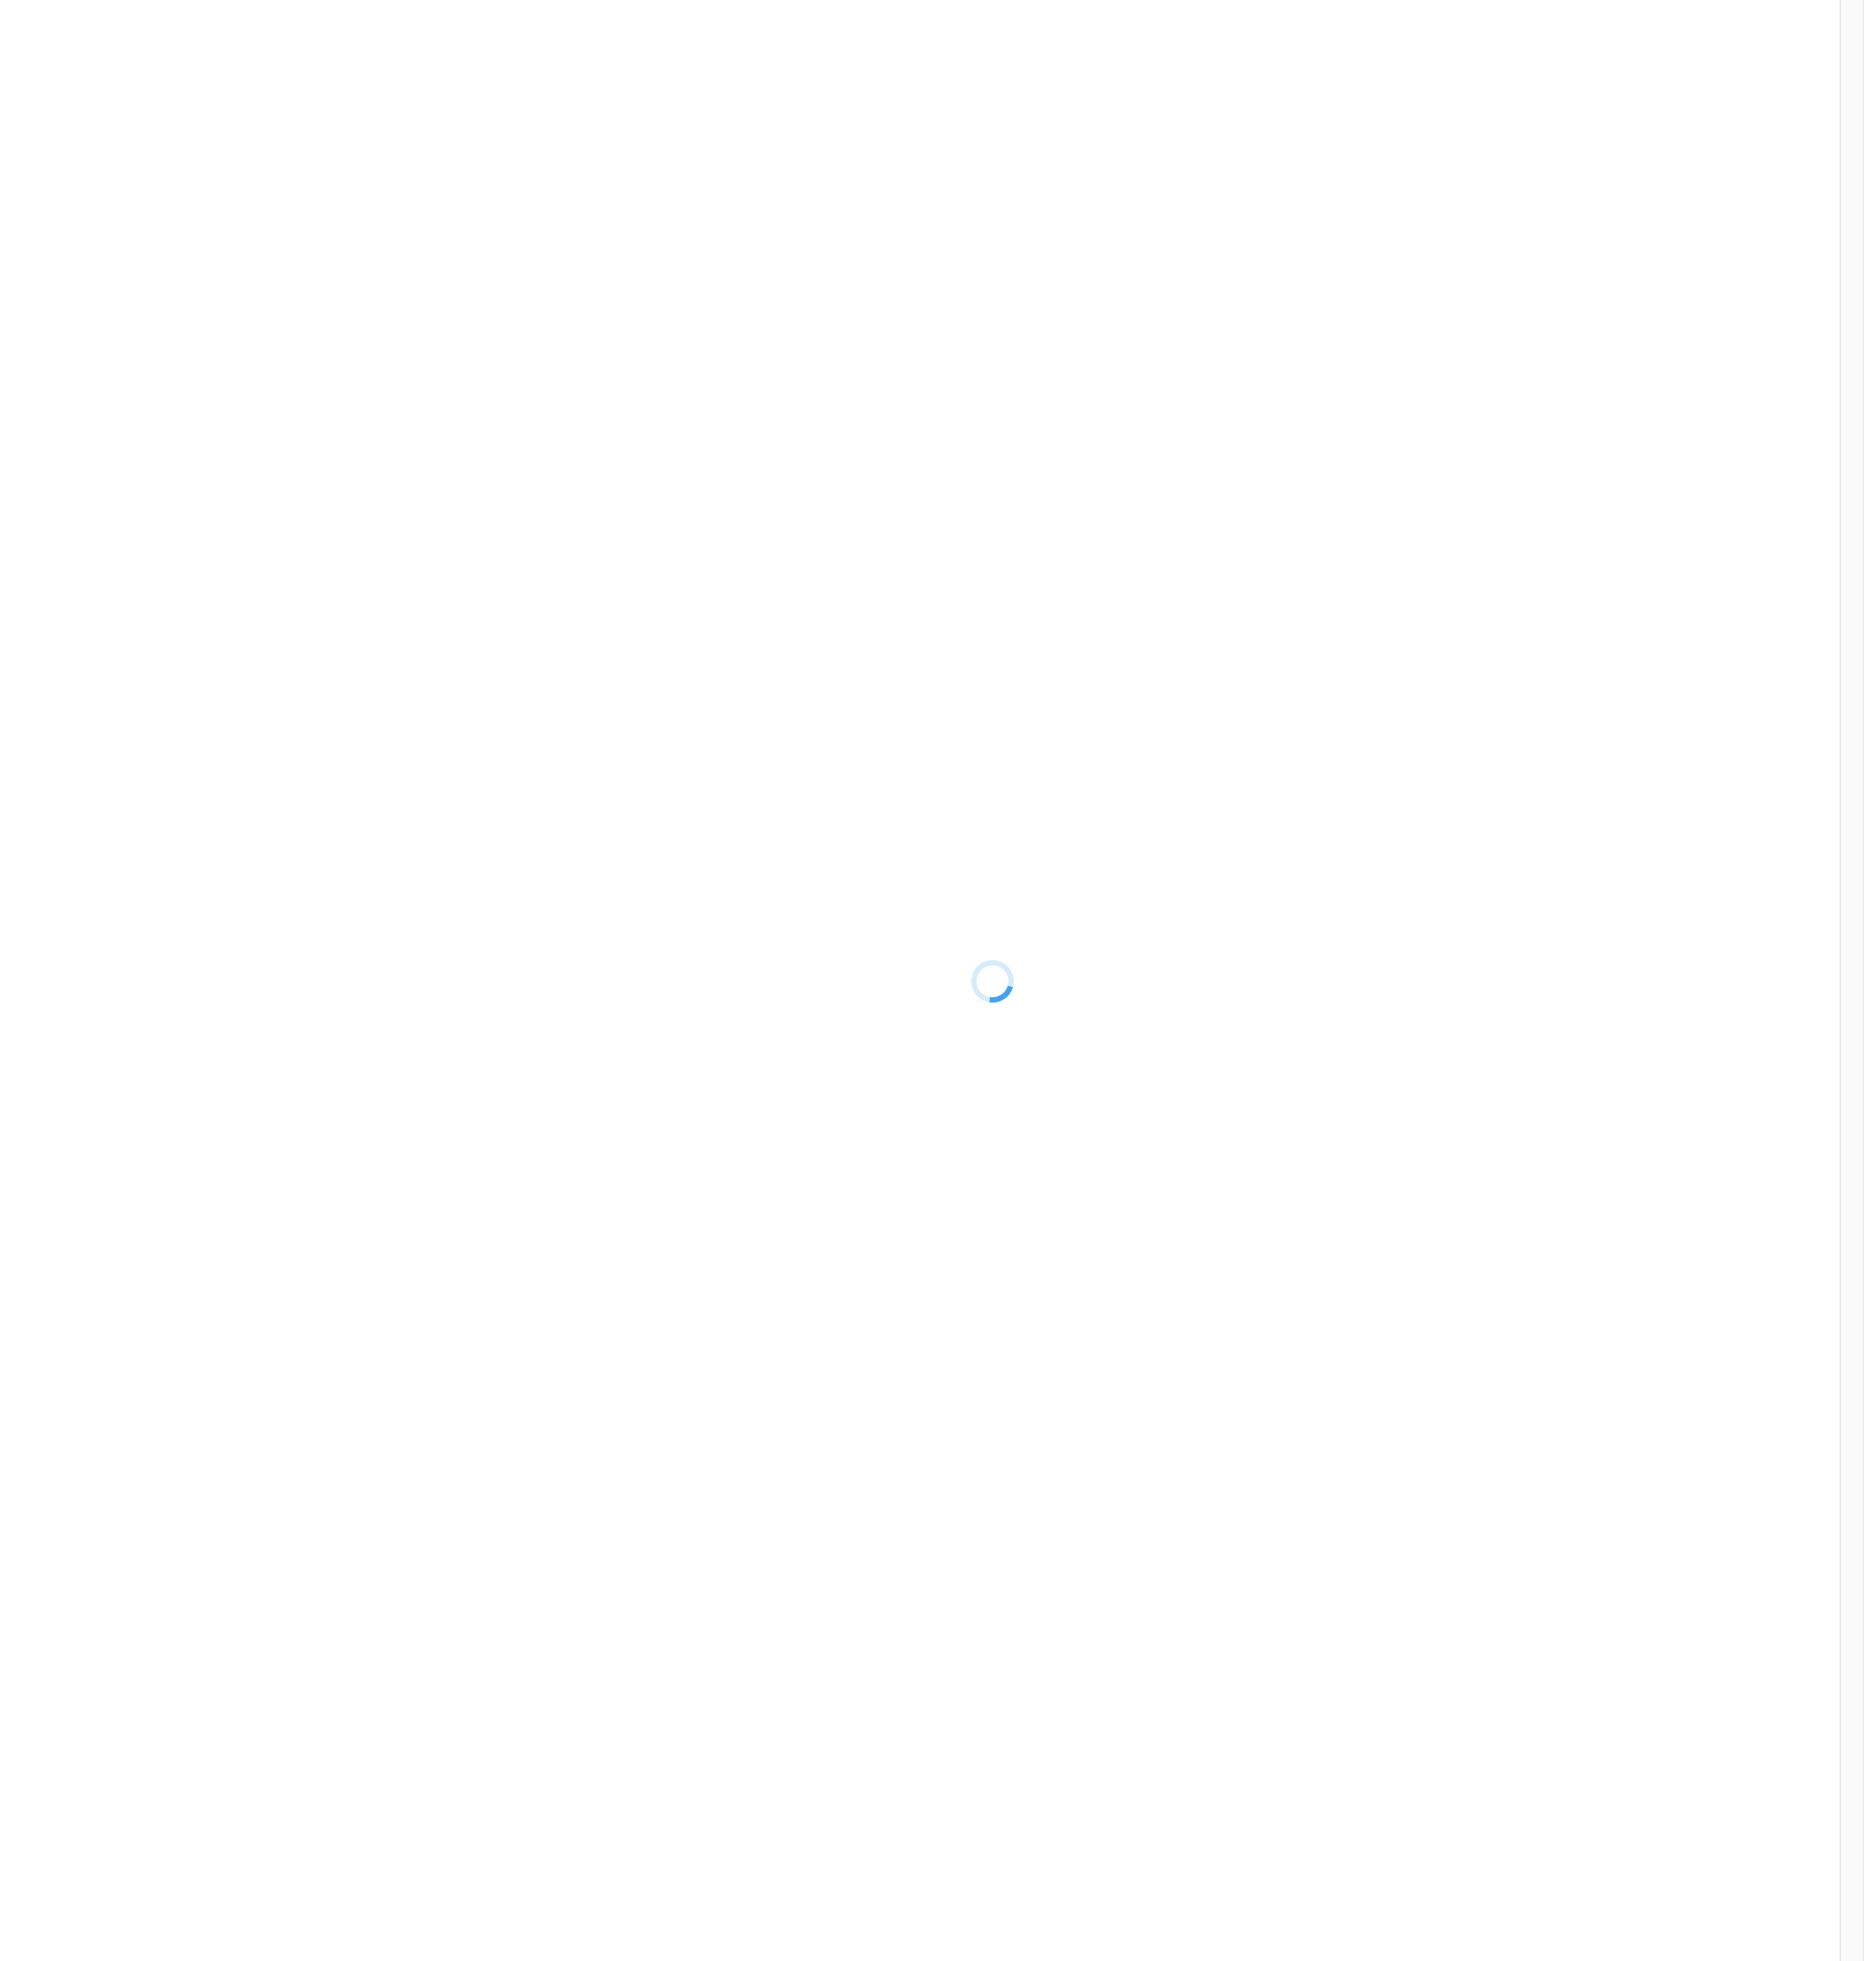
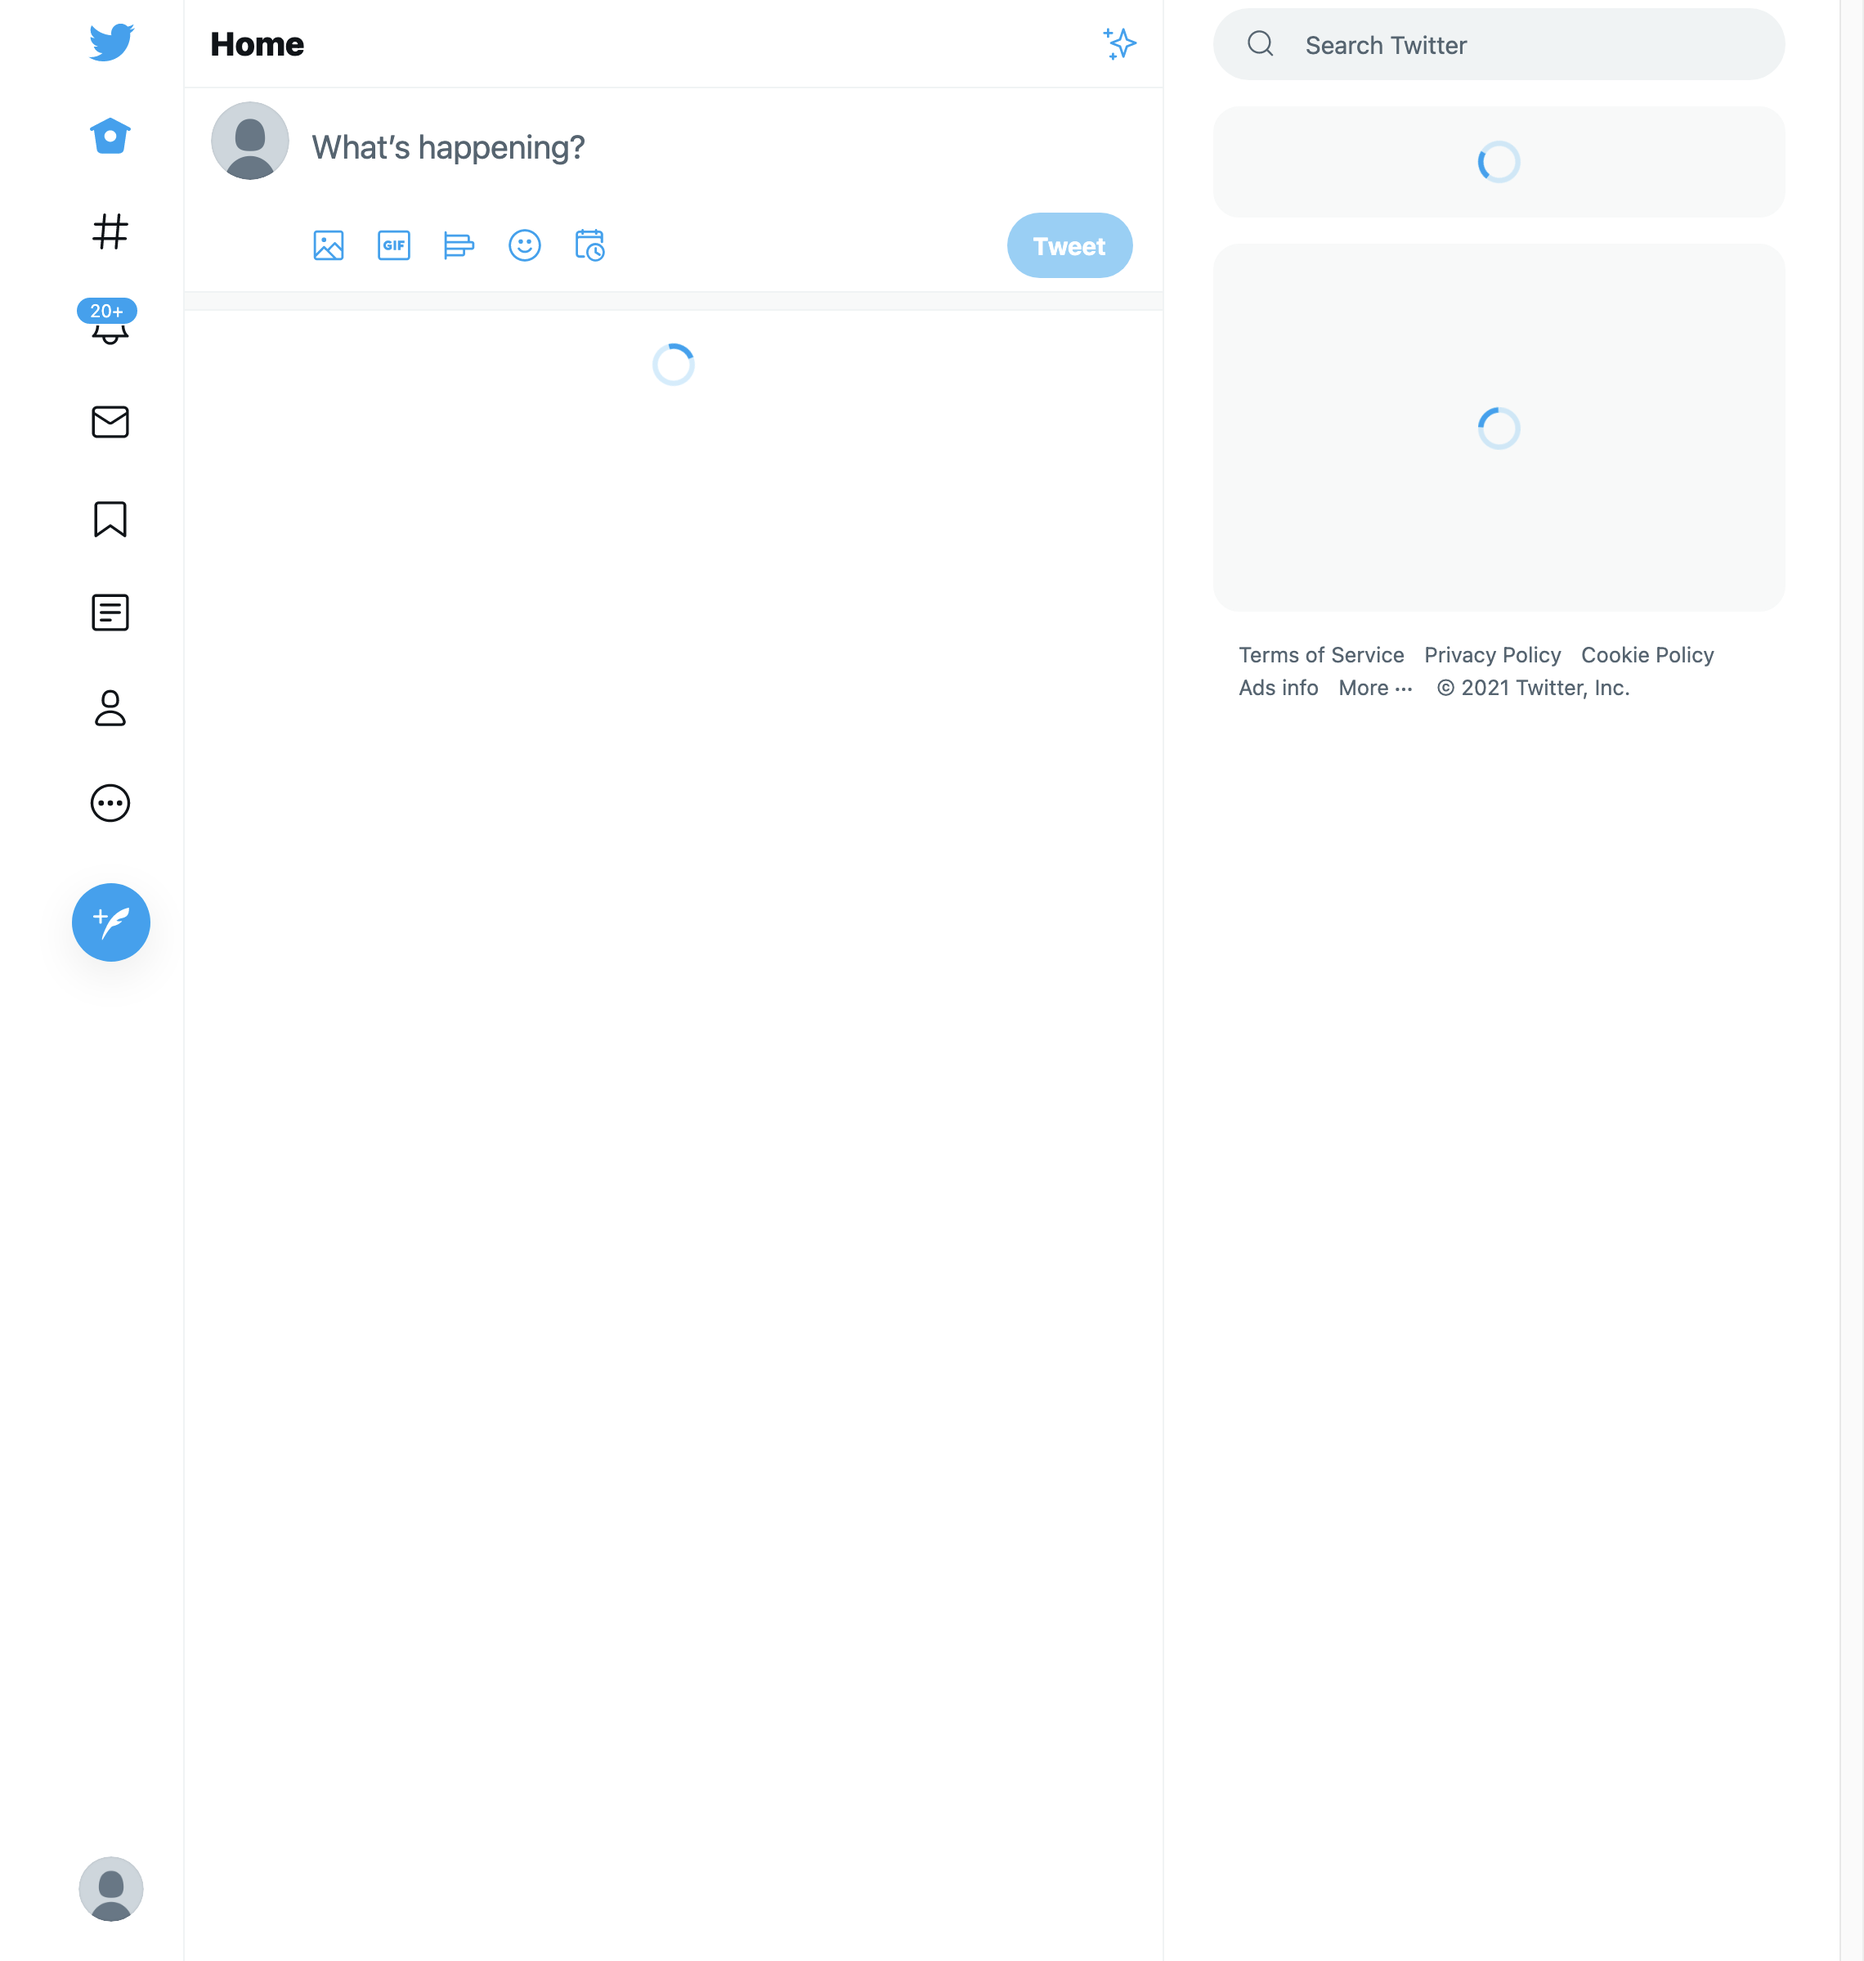
スクショが取れない

diff --git a/auto_search.py b/auto_search.py
@@ -106,6 +106,8 @@ with open(f'img/{today}.png', 'wb') as f:
     f.write(png)
 print("captured")
 
+
+
 # Twitterへのアクセス開始
 
 try:
@@ -140,10 +142,13 @@ except Exception as e:
     print(e.with_traceback())
 try:
     # send string
+    errorpng = driver.find_element_by_id("react-root").screenshot_as_png
 
-    time.sleep(5)
-    driver.find_element_by_id("challenge_response").send_keys("1120120u@g.hit-u.ac.jp")
-    driver.find_element_by_id("email_challenge_submit").click()
+# 画像を保存
+    with open('errorpng.png','wb') as f:
+        f.write(errorpng)
+    print("captured")
+    driver.save_screenshot('img/notranslate.png')
     driver.implicitly_wait(10)
     input_field = driver.find_element_by_class_name("notranslate")
     input_field.click()
@@ -152,7 +157,16 @@ try:
 except Exception as e:
 
     time.sleep(5)
-
+    # with open('error.png', 'wb') as f:
+    #     f.write()
+    print("captured")
+    print("[ERROR] notranslate is nothing")
+    print(e)
+    print(e.__context__)
+    time.sleep(5)
+    driver.find_element_by_id("challenge_response").send_keys("1120120u@g.hit-u.ac.jp")
+    driver.find_element_by_id("email_challenge_submit").click()
+    driver.implicitly_wait(10)
 
     # ここで再びnotranslateにアクセス
 
